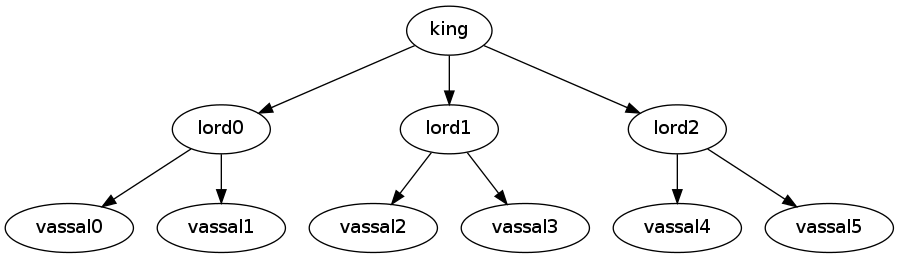
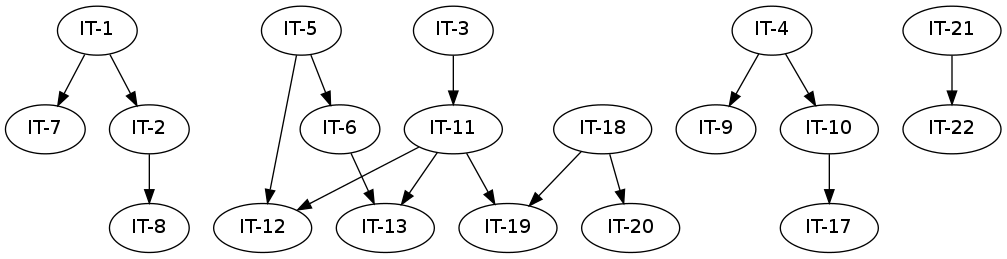
graficar sistema

diff --git a/src/templates/lineaBase/nuevalineabase.html b/src/templates/lineaBase/nuevalineabase.html
@@ -22,6 +22,7 @@
 
 <form id=nuevalineabase method=post action="/lineaBase/nuevalineabase">
 	<label>Seleccione los items:</label>
+	<div style="height:200px;width:500px;overflow:auto;">
 	<table id="tablaitems" border="1">
 		<TR>
 			<TH class="c1"></TH>
@@ -46,7 +47,7 @@
 			</TR>
 		{% endfor %}
 	</table>
-
+	</div>
     <label>Descripción</label> {{ form.descripcion() }}
  	<label>Estado</label>{{ form.estado() }} 
  	<label>Fecha Creacion </label> <input type="date" name="fecha" value="{{form.fechaCreacion.data}}"  id="fecha" readonly="true"/>

diff --git a/src/des/graficar/__init__.py b/src/des/graficar/__init__.py
@@ -45,22 +45,58 @@ def flash_errors(form):
 @app.route('/diagramar', methods=['GET', 'POST'])
 def diagramar():
     """ Funcion que se encarga de construir el grafo"""   
-    #grafo = pydot.Dot(graph_type='digraph', size = "8, 16")
-   
-    graph = pydot.Dot(graph_type='digraph')
-    for i in range(3):
-        edge = pydot.Edge("king", "lord%d" % i)
-        graph.add_edge(edge)
-
-    vassal_num = 0
-    for i in range(3):        
-        for j in range(2):
-            edge = pydot.Edge("lord%d" % i, "vassal%d" % vassal_num)
-            graph.add_edge(edge)
-            vassal_num += 1
+    nodos_explorados=[]
+    aristas_exploradas= []
+    
+    grafo = pydot.Dot(graph_type='digraph')
+    
+    fases= db_session.query(Fase).from_statement("select * from fase where id_proyecto = "+str(session['pry'])+" order by nro_orden").all()        
+    for fase in fases:
+        
+        items_fase = db_session.query(Item).from_statement("Select it.*  from item it, " + 
+                        " (Select  i.codigo cod, max(i.version) vermax from item i, fase f  where i.id_fase = f.id " + 
+                        " and f.id_proyecto = " + str(session['pry']) + "  group by codigo order by 1 ) s " + 
+                        " where it.codigo = cod and it.version= vermax and it.estado != 'E' and it.id_fase= "+str(fase.id))
+    
+        for nodo in items_fase: 
+                print nodo
+                print nodo.itemfase.nro_orden
+                col= color(nodo.itemfase.nro_orden) 
+                nodos_explorados.append(nodo)
+                nombre_nodo = nodo.codigo  
+                  
+                n = pydot.Node(nombre_nodo, style="filled", fillcolor = col)        
+                grafo.add_node(n)
+                #recorrer hijos
+                if obtenerItemsHijoSucesor(nodo.id) != None:
+                    for arista in obtenerRelacionesHijoSucesor(nodo.id):
+                        if arista not in aristas_exploradas:
+                            aristas_exploradas.append(arista)
+                            nombre_a = arista.relacionitem_duenho.codigo 
+                            col = color(arista.relacionitem_duenho.itemfase.nro_orden)            
+                            n_a = pydot.Node(nombre_a, style="filled", fillcolor = col)
+                            nodos_explorados.append(arista.relacionitem_duenho)
+                            grafo.add_node(n_a)
+                            grafo.add_edge(pydot.Edge(n,n_a))
             
+                #recorrer padres
+                if obtenerItemsPadreAncestro(nodo.id)!=None:         
+                    for aristaPadre in obtenerRelacionesPadreAncestro(nodo.id):
+                        if aristaPadre not in aristas_exploradas :
+                            aristas_exploradas.append(aristaPadre)
+                            nombre_b = aristaPadre.relacionitem.codigo 
+                            col = color(aristaPadre.relacionitem.itemfase.nro_orden)            
+                            n_b = pydot.Node(nombre_b, style="filled", fillcolor = col)
+                            nodos_explorados.append(aristaPadre.relacionitem)
+                            grafo.add_node(n_b)
+                            grafo.add_edge(pydot.Edge(n_b,n ))
+    
+    
+#    fases= db_session.query(Fase).from_statement("select * from fase where id_proyecto = "+str(session['pry'])+" order by nro_orden").all()        
+#    for fase in fases:
+#        grafo.add_subgraph(pydot.Cluster(fase.nombre))
     filename=os.path.join(cur_dir, cur_dir + '/static/graficos/grafo.png')
-    graph.write_png(filename)
+    grafo.write_png(filename)
     results = open(filename ,'rb').read()
     generator = (cell for row in results
                     for cell in row) 
@@ -72,19 +108,64 @@ def diagramar():
 
 
 @app.route('/graficar/hacer_grafo', methods=['GET', 'POST'])
-def hacer_grafo(): 
-    
+def hacer_grafo():     
     return render_template('/graficar/hacer_grafo.html')
    
-   
-#    results = a_bajar.archivo  
-#    generator = (cell for row in results
-#                    for cell in row) 
-#    #flash(u'Bajando archivo: {0}'.format(a_bajar.nombre))
-#    return Response(generator,
-#                       mimetype=a_bajar.mime,
-#                       headers={"Content-Disposition":
-#                                    "attachment;filename={0}".format(a_bajar.nombre)}) 
-#    
- 
+  
+def color(orden):
+    """
+    Determina el color que debe tener un item para la representacion grafica
+    del costo de impacto basado en el orden de la fase a la que pertenece.
+    """
+    colores = ["white", "blue", "green", "yellow", "orange", "purple", \
+               "pink", "gray", "brown"]
+    if cantidadFase() > len(colores):
+        return colores[0]
+    else:
+        return colores[int(orden) -1]    
+
+
+def obtenerItem(id_item):
+    item = db_session.query(Item).filter_by(id=id_item).first()
+    return item
+    
+
+def obtenerItemsHijoSucesor(id_item):     
+    """obtiene la lista actualizada de los item hijo/sucesores dado un item """
+    list_item_hijos = db_session.query(Item).from_statement(" select * from item where id in ( select r.id_item_duenho   from item i, relacion r "+
+                                                            " where i.id = r.id_item and r.id_item = "+str(id_item)+" and r.estado = 'A' ) ")
+    return list_item_hijos
+
+
+def obtenerRelacionesHijoSucesor(id_item):
+    """"obtiene la lista actualizada de las relaciones hijo/sucesor dado un item"""
+    list_relac_hijos = db_session.query(Relacion).from_statement("select * from relacion where id in  ( select r.id  from item i, relacion r "+
+                                                                 " where i.id = r.id_item  and r.id_item= "+str(id_item)+" and r.estado = 'A') ")
+    return list_relac_hijos           
+
+
+def obtenerItemsPadreAncestro(id_item):    
+    """"Obtiene la lista de items actualizada de padres/ancestros dado un item"""
+    list_item_padres = db_session.query(Item).from_statement(" select * from item where id in ( select r.id_item  from item i, relacion r "+
+                                                            " where i.id = r.id_item_duenho and r.id_item_duenho= "+str(id_item)+" and r.estado = 'A' ) ")
+    return list_item_padres 
+
+
+def obtenerRelacionesPadreAncestro(id_item):
+    """Obtiene la lista de relaciones padre/ancestro actualizada dado un item"""
+    list_relac_padres = db_session.query(Relacion).from_statement("select * from relacion where id in  ( select r.id  from item i, relacion r "+ 
+                                                           " where i.id = r.id_item_duenho and r.id_item_duenho=  "+str(id_item)+" and r.estado = 'A') ")
+    return list_relac_padres
+
+
+def cantidadFase():
+    """Proporciona la cantidad de fases del proyecto"""    
+    fase= db_session.query(Fase).filter_by(id_proyecto= session['pry'] ).all()
+    count= 0
+    for  f in fase :
+        count= count+1
+    return count    
+    
+          
+                
  

diff --git a/src/des/item/__init__.py b/src/des/item/__init__.py
@@ -111,12 +111,6 @@ def nuevoitem():
             atributo = db_session.query(Atributo).join(TItemAtributo , TItemAtributo.id_atributo == Atributo.id).join(TipoItem, TipoItem.id == TItemAtributo.id_tipo_item).filter(TipoItem.id == id_tipog).all()
            
             uploaded_file = flask.request.files['archivo']
-            #pickle.dump("hola", escritorFile,2)
-            print uploaded_file   
-#            # f = file(uploaded_file, 'rb').read()
-            print  uploaded_file.filename  
-            print  uploaded_file.read()
-            print   uploaded_file.content_type 
             
             item = Item(form.codigo.data, form.nombre.data, form.descripcion.data,
                     form.estado.data, form.complejidad.data, form.fecha.data, form.costo.data,
@@ -129,18 +123,11 @@ def nuevoitem():
             file_data = uploaded_file.read()
             file_tipo = uploaded_file.content_type
       
-     
-            #gger.info(form.archivo.data)
-            #current_app.logger.info(file_data)
-            
-#            filename = secure_filename(uploaded_file.filename)
-#            file_data = form.archivo.data.read()
-#            file_tipo = form.archivo.data.mimetype
-            archivo= Archivo(item.id, filename,  uploaded_file.read() , file_tipo)            
-            db_session.add(archivo)
-            db_session.commit() 
-            print uploaded_file.read()
-             
+#            if filename != None:
+#                archivo= Archivo(item.id, filename,  uploaded_file.read() , file_tipo)            
+#                db_session.add(archivo)
+#                db_session.commit() 
+#             
             # cambia el estado de la fase si este es inicial
             fase = db_session.query(Fase).filter_by(id=item.id_fase).first()  
             if fase.estado == 'I':
